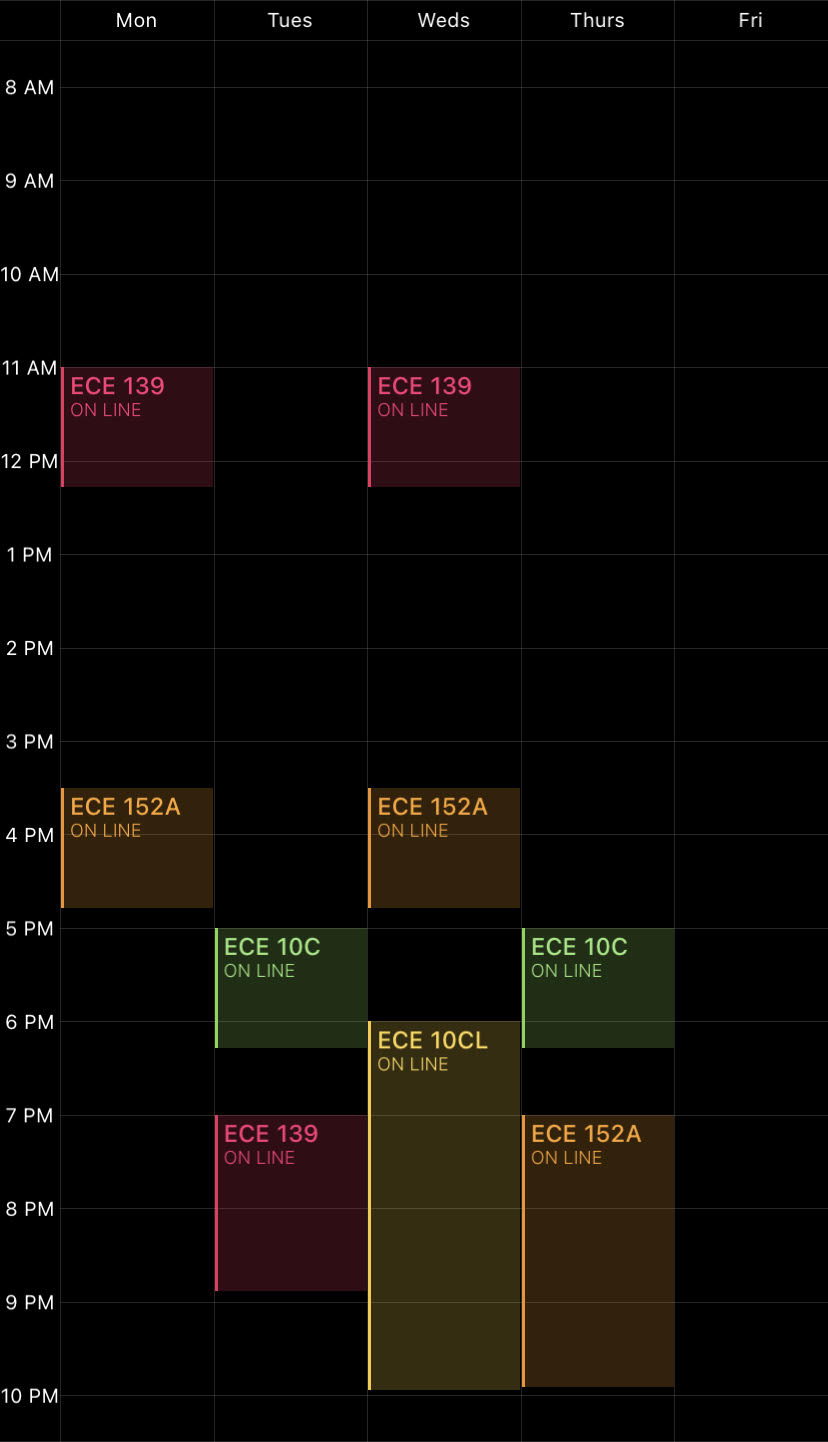
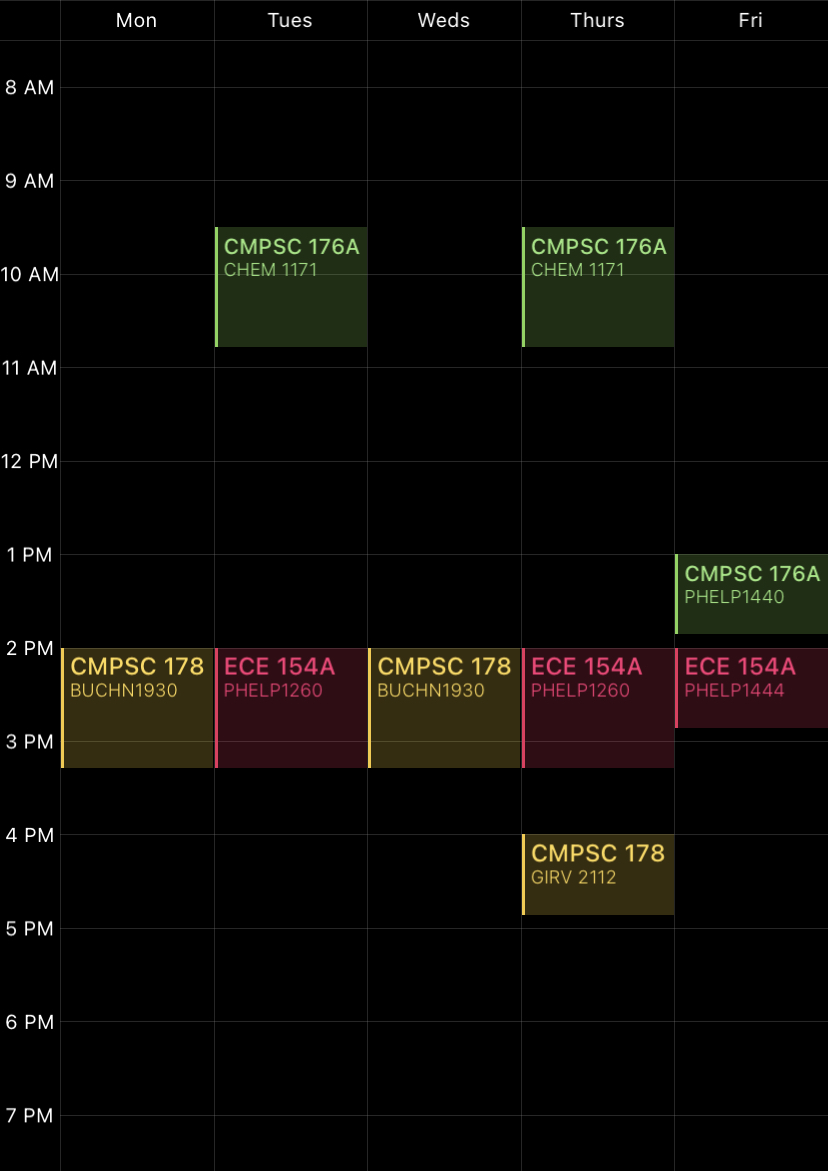
Use google calendar, update for winter 2022

diff --git a/index.html b/index.html
@@ -1,82 +1,115 @@
 <!DOCTYPE html>
 <html>
-<head>
-  <meta charset="utf-8">
-  <meta name="viewport" content="width=device-width">
-  <link rel="stylesheet" href="style.css">
-  <link rel="icon" href="res/icon.png" type="image/x-icon"> 
-  <title>School Tab</title>
-</head>
-<body>
-<div id="main-grid">
-<div id="search-box">
-    <form id="search-form" align=center method="get" action="http://www.google.com/search">
-        <input id="search-input" type="text" name="q" size="10000" autofocus
-        maxlength="255" value="Google search"
-        onfocus="if(this.value==this.defaultValue)this.value='';"
-        onblur="if(this.value=='')this.value=this.defaultValue; "/>
-    </form>
-</div>
-<div id="info-div">
-<pre><b>ECE 10C: ASYNC</b>
-    <a href="https://gauchospace.ucsb.edu/courses/course/view.php?id=115272">GauchoSpace</a>
-    <a href="https://gauchocast.hosted.panopto.com/Panopto/Pages/Sessions/List.aspx#folderID=%223095288e-3366-498a-8bbd-acf7014ec404%22">GauchoCast</a>
-    <a href="">!Lecture Zoom: ece10c</a>
-    <a href="">!Section Zoom: ece10c</a>
-    <a href="https://piazza.com/class/kmawkxivh5o2sj">Piazza</a>
-    20% HW, 50% 2 Midterms, 30% Final
+    <head>
+        <meta charset="utf-8" />
+        <meta name="viewport" content="width=device-width" />
+        <link rel="stylesheet" href="style.css" />
+        <link rel="icon" href="res/icon.png" type="image/x-icon" />
+        <title>School Tab</title>
+    </head>
+    <body>
+        <div id="main-grid">
+            <div id="search-box">
+                <form id="search-form" align="center" method="get" action="http://www.google.com/search">
+                    <input
+                        id="search-input"
+                        type="text"
+                        name="q"
+                        size="10000"
+                        autofocus
+                        maxlength="255"
+                        value="Google search"
+                        onfocus="if(this.value==this.defaultValue)this.value='';"
+                        onblur="if(this.value=='')this.value=this.defaultValue; "
+                    />
+                </form>
+            </div>
+            <div id="info-div">
+                <pre><b>ENGR 101 - Ethics in Eng</b>
+    <a href="https://gauchospace.ucsb.edu/courses/course/view.php?id=945">GauchoSpace</a>
+    <a href="">Lectures</a>
+    <a href="https://app.slack.com/client/T02T520LXJ4/C02S8KEP84W">Slack</a>
+    <a href="file:///T:/Drive/School/W22/ENGR%20101/syllabus.pdf">Syllabus</a>
+    <a href="">Textbook</a>
+    10% Parti, 5% Enter, 5% PhilInv, 5% Module
+    10% Paper, 15% Present, 20% MT (2/2->2/9), 25% Proj, 5% Fin
 
-<b>ECE 10CL: ASYNC</b>
-    <a href="">!GauchoSpace</a>
-    <a href="">!GauchoCast</a>
-    <a href="">!Lecture Zoom</a>
-    <a href="">!Section Zoom</a>
-    Grading TBA
+<b>ECE 153B - SYNC - Sensor & Periph Des</b>
+    <a href="https://gauchospace.ucsb.edu/courses/course/view.php?id=49">GauchoSpace</a>
+    <a href="">GradeScope</a>
+    <a href="https://student.iclicker.com/#/courses/96570359-8991-4072-92b3-f054ba5195ce/tab/default">iClicker</a>
+    <a href="https://ucsb.zoom.us/j/89264065683">Lectures</a>
+    <a href="">Piazza</a>
+    <a href="">Slack</a>
+    <a href="">Course Website</a>
+    <a href="">Syllabus</a>
+    5/8/8/12/7% 5 Labs, 27% Project, 30% 2 MT (2/2, 3/9), 3% iClicker (D<2)
+    
+    <b>CMPSC 130A - SYNC - DS and Alg</b>
+    <a href="https://gauchospace.ucsb.edu/courses/course/view.php?id=1124">GauchoSpace</a>
+    <a href="https://www.gradescope.com/courses/344904">GradeScope</a>
+    <a href="https://ucsb.zoom.us/j/84386282711?pwd=ZDFRMzBFQ05yUnVpNWZhMUh1WDJGdz09">Lectures</a>
+    <a href="">!Section</a>
+    <a href="https://student.iclicker.com/#/courses/894ad8aa-b545-462d-90fb-027b2f8141d8/tab/default">iClicker</a>
+    <a href="https://piazza.com/class/kxxdto09dfqlr">Piazza</a>
+    <a href="https://drive.google.com/drive/u/1/folders/1C9hg0KJDP1M0-lBJJLI4OOa1aH6542gR">Google Drive</a>
+    <a href="file:///T:/Drive/School/W22/CMPSC%20130A/syllabus.pdf">Syllabus</a>
+    <a href="file:///T:/Drive/School/W22/CMPSC%20130A/DS%20&%20Alg%20Mark%20Weiss%204th.pdf">Textbook</a>
+    8% Attend, 24% 6 HW, 18% 2 Labs, 20% MT (2/3), 30% Fin (3/14)
+    
+    <b>CMPSC 156 - Adv App Prog</b>
+    <a href="https://gauchospace.ucsb.edu/courses/course/view.php?id=215">GauchoSpace</a>
+    <a href="https://www.gradescope.com/courses/342053">GradeScope</a>
+    <a href="https://ucsb.zoom.us/j/88010129062?pwd=MC9tVGpsb3I4cEZyTlZyTGFMN2xuQT09">Lectures</a>
+    <a href="https://ucsb.zoom.us/j/88010129062?pwd=MC9tVGpsb3I4cEZyTlZyTGFMN2xuQT09">Section</a>
+    <a href="https://github.com/ucsb-cs156-w22">Github</a>
+    <a href="https://app.slack.com/client/T02M9HWT1JQ">Slack</a>
+    <a href="https://ucsb-cs156.github.io/w22/">Course Website</a>
+    <a href="https://ucsb-cs156.github.io/w22/info/syllabus/">Syllabus</a>
+    <a href="file:///T:/Drive/School/W22/CMPSC%20156/Head%20First%20Java%20OReilly%202nd.pdf">Head First Java</a>, <a href="file:///T:/Drive/School/W22/CMPSC%20156/Java%20In%20A%20Nutshell%20OReilly%207th.pdf">Java in Nutshell</a>, <a href="file:///T:/Drive/School/W22/CMPSC%20156/Head%20First%20Design%20Patterns%20OReilly.pdf">Head First Design</a> 
+    10% Parti (D<3), 20% HW/Q (D<2), 30% 6 Labs, 40% Project
 
-<b>ECE 152A: ASYNC*</b>
-    <a href="https://gauchospace.ucsb.edu/courses/course/view.php?id=115362">GauchoSpace</a>
-    <a href="https://gauchocast.hosted.panopto.com/Panopto/Pages/Sessions/List.aspx#folderID=%221ca99b6b-dc3f-408a-98c1-acf400b0c847%22">GauchoCast</a>
-    <a href="">!Lecture Zoom</a>
-    <a href="">!Section Zoom</a>
-    30% 5 Labs, 20% 4 HW, 20% Midterm, 30% Final
-
-<b>ECE 139: ASYNC</b>
-    <a href="https://gauchospace.ucsb.edu/courses/course/view.php?id=115332">GauchoSpace</a>
-    <a href="https://gauchocast.hosted.panopto.com/Panopto/Pages/Sessions/List.aspx#folderID=%22d12d5f21-997b-45e2-94ab-acfb005257b1%22">GauchoCast</a>
-    <a href="">!Lecture Zoom</a>
-    <a href="">!Section Zoom</a>
-    5% Attendance/quizzes, 20% Homework, 30% Midterm, 45% Final
+<b>CMPSC 176B - AYNC - Networks 2</b>
+    <a href="">GradeScope</a>
+    <a href="https://ucsb.zoom.us/j/659701682?pwd=ZFFBamlXcFJvTzV0M1dNZ3N2eUhvUT09">Lectures</a>
+    <a href="https://app.slack.com/client/T02RZG9DNN7/C02SP7BRAJU">Slack</a>
+    <a href="https://sites.cs.ucsb.edu/~arpitgupta/cs176b/winter22/">Course Website</a>
+    <a href="https://sites.cs.ucsb.edu/~arpitgupta/cs176b/winter22/about/">Syllabus</a>
+    <a href="https://sdn.systemsapproach.org/index.html">Textbook</a>
+    30% 6 Q, 40% 3+1 Labs, 15% MT (2/16), 15% Fin
 </pre>
-</div>
-<div id="schedule-div">
-    <img src="res/schedule.jpg" id="schedule">
-</div>
-<div id="enter-div">
-    <div id="enter-card">
-        <a href="https://www.producthunt.com">
-            <img src="res/phunt.svg" id="enter-pic">
-            <p id="enter-text">Product Hunt</p>
-        </a>
-    </div>
-    <div id="enter-card">
-        <a href="https://news.ycombinator.com">
-            <img src="res/hackernews.gif" id="enter-pic">
-            <p id="enter-text">Hacker News</p>
-        </a>
-    </div>
-    <div id="enter-card">
-        <a href="https://gauchospace.ucsb.edu/courses/my/">
-            <img src="res/gauchospace.png" id="enter-pic">
-            <p id="enter-text">GauchoSpace</p>
-        </a>
-    </div>
-    <div id="enter-card">
-        <a href="https://my.sa.ucsb.edu/gold/PersonalData.aspx">
-            <img src="res/gold.png" id="enter-pic">
-            <p id="enter-text">GOLD</p>
-        </a>
-    </div>
-</div>
-</div>
-</body>
+            </div>
+            <div id="schedule-div">
+                <div id="calendar"></div>
+                <iframe
+                    id="cal"
+                    src="https://calendar.google.com/calendar/embed?height=600&wkst=2&bgcolor=%23616161&ctz=America%2FLos_Angeles&showTitle=0&showDate=0&showPrint=0&mode=WEEK&showCalendars=0&showTabs=0&showTz=0&showNav=1&src=Z2VwZWFrZUBnbWFpbC5jb20&src=MHRvdTlwMnRjaWJyaG5kZGJyaGRmbmlzY29AZ3JvdXAuY2FsZW5kYXIuZ29vZ2xlLmNvbQ&src=YWRkcmVzc2Jvb2sjY29udGFjdHNAZ3JvdXAudi5jYWxlbmRhci5nb29nbGUuY29t&color=%234285F4&color=%23E67C73&color=%2333B679"
+                    style="border-width: 0"
+                    frameborder="0"
+                    scrolling="no"
+                ></iframe>
+            </div>
+            <div id="enter-div">
+                <div id="enter-card">
+                    <a href="https://gauchospace.ucsb.edu/courses/my/">
+                        <img src="res/gauchospace.png" id="enter-pic" />
+                    </a>
+                </div>
+                <div id="enter-card">
+                    <a href="https://my.sa.ucsb.edu/gold/PersonalData.aspx">
+                        <img src="res/gold.png" id="enter-pic" />
+                    </a>
+                </div>
+            </div>
+        </div>
+    </body>
+<script type="text/javascript">
+    window.onload = function() {
+        var cssLink = document.createElement("link");
+        cssLink.href = "calstyle.css"; 
+        cssLink.rel = "stylesheet"; 
+        cssLink.type = "text/css"; 
+        frames[0].document.head.appendChild(cssLink);
+    }
+</script>
 </html>

diff --git a/style.css b/style.css
@@ -1,9 +1,17 @@
+html{
+    --bg-color: #0b0f1f;
+    --card-color: #161b2e;
+    --text-color: #DCDCDC;
+    --shadow-color: #DCDCDC;
+    color: white;
+}
+
 b {
-    font-size: 2.8vh;
+    font-size: 2.3vh;
 }
 
 pre {
-    font-size: 1.7vh;
+    font-size: 1.3vh;
 }
 
 body {
@@ -18,13 +26,14 @@ body {
     display: grid;
     grid-template-columns: 1fr 1fr 1fr 1fr 1fr 1fr 1fr 1fr;
     grid-template-rows: 5vh 89vh;
+    background-color: var(--bg-color);
     grid-row-gap: 2vh;
     grid-column-gap: 1vw;
     justify-content: space-between;
 }
 
 a {
-    color: #6687c4;
+    color: #59b6f3;
     text-decoration: none;
 }
 
@@ -42,8 +51,7 @@ a:hover{
     padding-left: 24px;
     max-width: 50%;
     border-radius: 50000vh;
-    background-color: white;
-    box-shadow: 0vh 0vh 1vh #DCDCDC;
+    background-color: var(--card-color);
 }
 
 #search-form{
@@ -65,9 +73,8 @@ a:hover{
     grid-column-end: 5;
     border: 0%;
     padding: 2%;
-    background-color: white;
+    background-color: var(--card-color);
     border-radius: 3vh;
-    box-shadow: 0vh 0vh 1vh #DCDCDC;
 }
 
 #schedule-div{
@@ -79,14 +86,16 @@ a:hover{
     padding: 0%;
     background-color: black;
     border-radius: 3vh;
-    box-shadow: 0vh 0vh 1vh #DCDCDC;
     overflow: hidden;
     text-align: center;
+    display: flex;
+    flex-direction: column;
+    justify-content: center;
 }
 
-#schedule{
-    max-height:100%;
-    max-width:100%;
+#cal{
+    height:95%;
+    width:100%;
 }
 
 #enter-div{
@@ -97,37 +106,36 @@ a:hover{
     display: grid;
     grid-row-gap: 1vh;
     height: 89vh;
-    grid-template-rows: auto auto auto auto;
+    grid-template-rows: auto auto auto;
     border: 0%;
     padding: 0%;
-    background-color: white;
+    background-color: var(--bg-color);
 }
 
 #enter-card{
     display: flex;
     justify-content: space-evenly;
     flex-direction: column;
-    padding: 0%;
-    background-color: white;
+    padding: 3vh 0 3vh 0;
+    margin-top: auto;
+    background-color: var(--card-color);
     border-radius: 2.9vh;
-    box-shadow: 0vh 0vh 1vh #DCDCDC;
     text-align: center;
 }
 
 #enter-card:hover{
-    background-color: blanchedalmond;
+    opacity: .7;
 }
 
 #enter-pic{
-    padding: 0 0 1vh 0;
+    padding: 4px 0px;
     margin: 0;
-    max-width:90%;
-    border-radius: 25%;
-    height: auto;
+    max-width: 90%;
+    border-radius: 2.8vh;
 }
 
 #enter-text{
-    padding: 0;
+    padding: 0px 0px 0px 0px;
     margin: 0;
     font-size: 1.7vh;
 }
